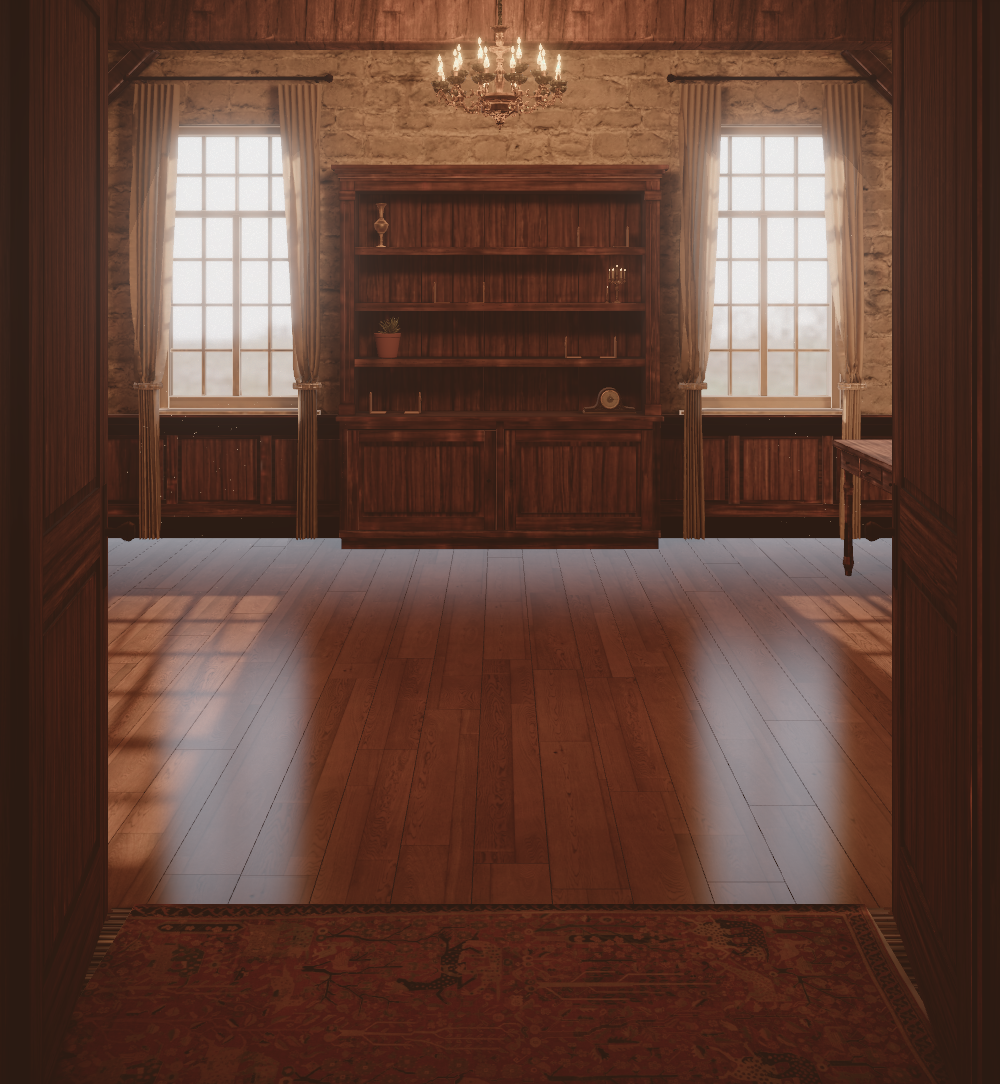
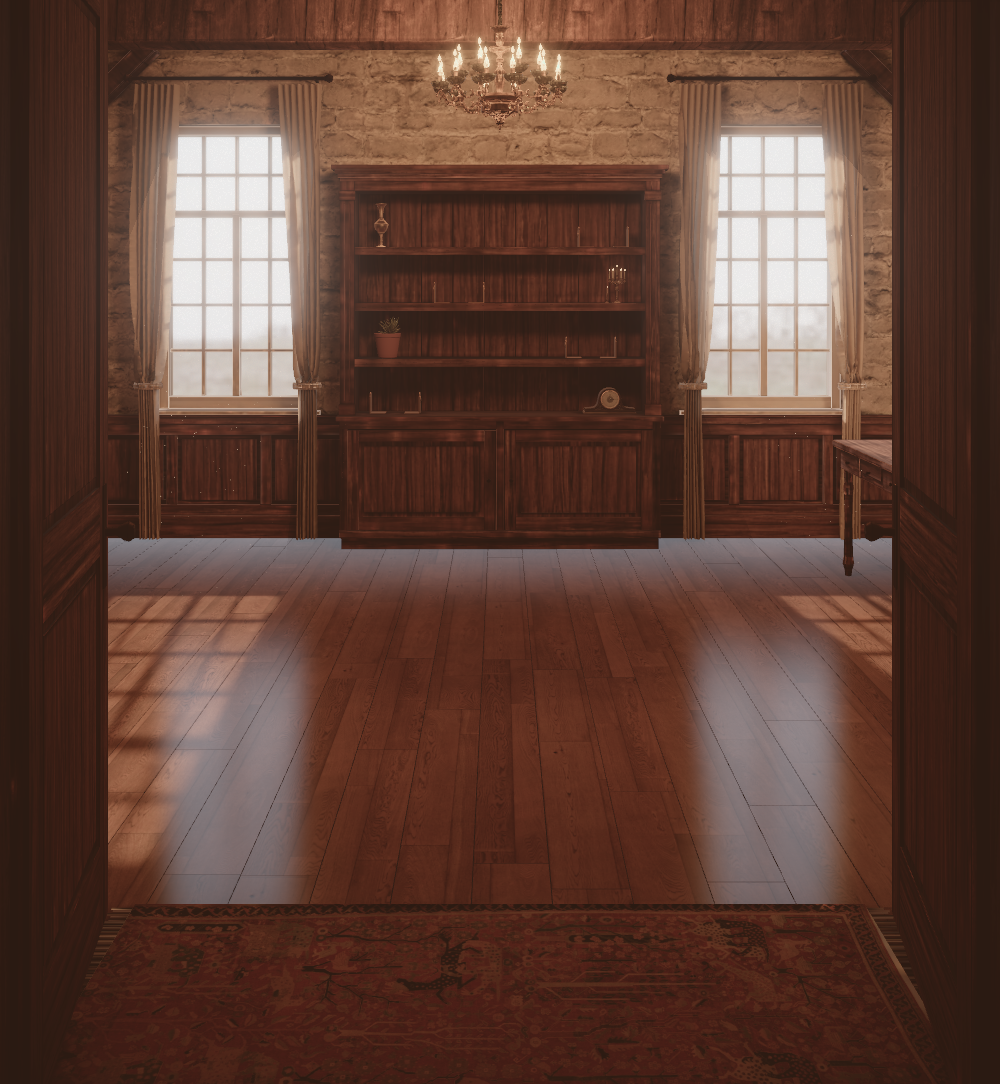
look dev S5: normais das caixas abertas, reflexo menos espalhado

diff --git a/src/scene/floorReflectionShader.ts b/src/scene/floorReflectionShader.ts
@@ -13,8 +13,8 @@ export const floorReflection: FloorReflectionUniforms = {
   tReflect: { value: null },
   reflectMatrix: { value: new Matrix4() },
   reflectMix: { value: 0 },
-  reflectStretch: { value: 0.075 },
-  reflectBoost: { value: new URLSearchParams(window.location.search).get('debug') === 'reflect' ? 30 : 1.5 },
+  reflectStretch: { value: 0.06 },
+  reflectBoost: { value: new URLSearchParams(window.location.search).get('debug') === 'reflect' ? 30 : 1.0 },
 }
 
 /** GLSL injected into the floor material (Lightmaps.ts). Replaces the env radiance by the blurred reflection. */

diff --git a/src/scene/FloorReflection.tsx b/src/scene/FloorReflection.tsx
@@ -21,7 +21,7 @@ import { floorReflection } from './floorReflectionShader'
 export const REFLECT_LAYER = 3
 const REFLECTED = /^(stone|window_paint|glass|linen|bookcase|wainscot|brass|beam|plaster|chandelier|curtain|tieback|door|desk)/
 
-const REFLECT_CLEAR = new Color('#1a110b')
+const REFLECT_CLEAR = new Color(new URLSearchParams(window.location.search).get('debug') === 'reflect-clear' ? '#ff00ff' : '#1a110b')
 const prevClear = new Color()
 
 const matName = (m: Material | Material[]) => (Array.isArray(m) ? m[0]?.name : m.name) ?? ''

diff --git a/src/scene/Grade.tsx b/src/scene/Grade.tsx
@@ -27,7 +27,7 @@ void mainImage(const in vec4 inputColor, const in vec2 uv, out vec4 outputColor)
  * never pure black ("nunca preto puro").
  */
 class ShadowFloorEffect extends Effect {
-  constructor({ color = '#2A1A12', saturation = 0.86 } = {}) {
+  constructor({ color = '#2A1A12', saturation = 0.8 } = {}) {
     const c = new Color(color) // three converts the sRGB hex to linear
     super(
       'ShadowFloor',

diff --git a/src/scene/ShelfProps.tsx b/src/scene/ShelfProps.tsx
@@ -21,7 +21,7 @@ export function ShelfProps() {
         }
         mat.envMapIntensity = 0.6
         // aged brass is satin, not mirror: the env holds the hot windows
-        if (/brass/i.test(mat.name)) mat.roughness = 1.5
+        if (/brass/i.test(mat.name)) mat.roughness = 1.1
       }
     })
   }, [scene, quality])

diff --git a/blender/geo.py b/blender/geo.py
@@ -108,10 +108,11 @@ class MeshBuilder:
 
     def finish(self, coll: str, materials: dict[str, bpy.types.Material] | list | None = None,
                merge: bool = True) -> bpy.types.Object:
-        """merge=False keeps loose quads as built (their winding already faces the right way)."""
+        """Faces are wound outward by construction (box() and face()); no normal recalculation:
+        on open boxes (a face skipped against a wall) it flips normals inward and the bake lights
+        them from inside."""
         if merge:
             bmesh.ops.remove_doubles(self.bm, verts=self.bm.verts, dist=1e-5)
-            bmesh.ops.recalc_face_normals(self.bm, faces=self.bm.faces)
         mesh = bpy.data.meshes.new(self.name)
         self.bm.to_mesh(mesh)
         self.bm.free()

diff --git a/docs/look-dev/iteracoes.md b/docs/look-dev/iteracoes.md
@@ -32,3 +32,8 @@ Cada entrada: data/hora, o que mudou, notas por critério (art-reviewer), diverg
 
 ### S4 — 2026-10-15 ~02:06 (draft)
 - Mudanças: oclusão especular pelo lightmap nos estáticos (o env não sabe das sombras da sala); sol com penumbra 0,8° (quadriculado das janelas nítido e alongado no piso); céu das janelas quente e estourado no app; feixes mais fortes; tapete com o contraste original do Met; deslocamento aleatório de UV por peça (quebra a repetição do veio).
+- **art-reviewer (S4):** composição 3 · luz 3 (melhorou: quadriculado nítido) · reflexo 3 · estante 3 · nada plástico 2 — "iterar"; bake final só depois de resolver o encontro piso/parede.
+
+### S5 — 2026-10-15 ~02:15 (draft)
+- **Bug estrutural corrigido:** `MeshBuilder.finish()` recalculava normais em caixas abertas (face junto à parede omitida) e invertia faces do lambri/rodapé — o bake as iluminava por dentro (rodapé quase preto, "estante flutuando"). Agora as faces saem orientadas por construção, sem recálculo.
+- Reflexo do piso: alongamento 0,11 → 0,06 e ganho 1,25 → 1,0 (o véu cinza-azulado no fundo do piso era o reflexo das janelas espalhado em ângulo rasante, conferido com `debug=reflect-clear`); saturação global 0,8; latão dos props menos fosco.
